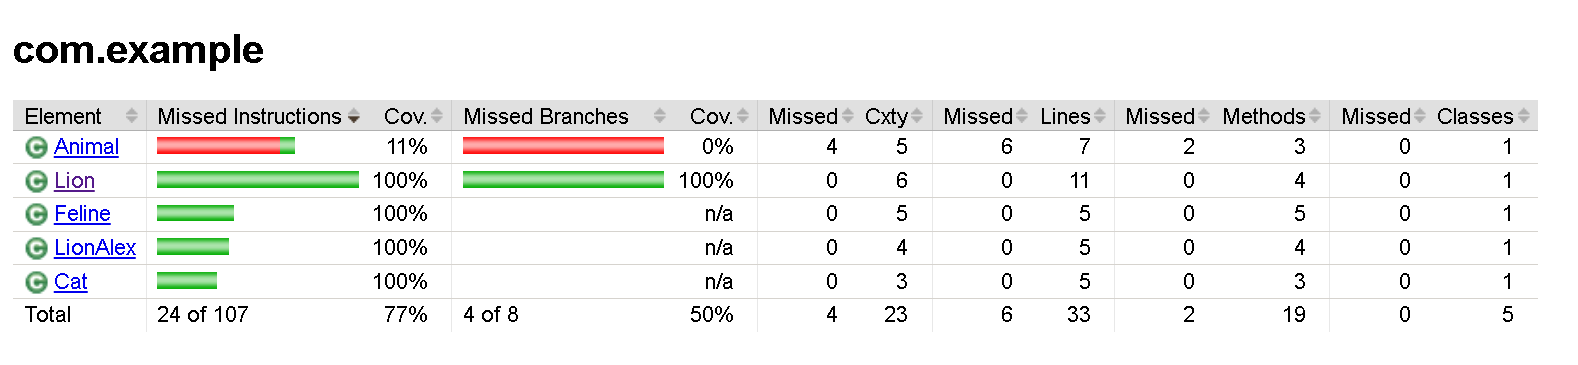
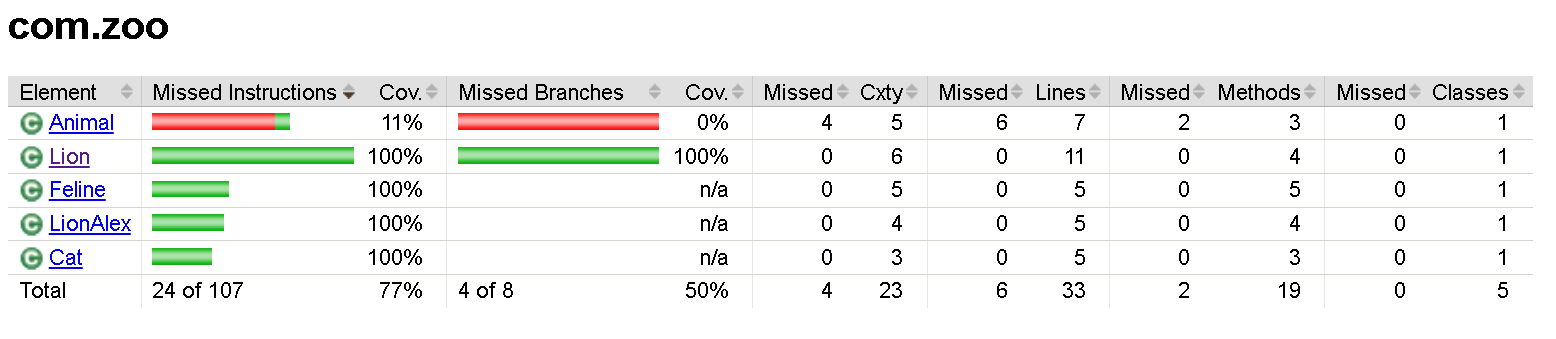
refactor: rename base package to com.zoo

diff --git a/src/main/java/com/zoo/Animal.java b/src/main/java/com/zoo/Animal.java
@@ -1,0 +1,20 @@
+package com.zoo;
+
+import java.util.List;
+
+public class Animal {
+
+    public List<String> getFood(String animalKind) throws Exception {
+        if ("Травоядное".equals(animalKind)) {
+            return List.of("Трава", "Различные растения");
+        } else if ("Хищник".equals(animalKind)) {
+            return List.of("Животные", "Птицы", "Рыба");
+        } else {
+            throw new Exception("Неизвестный вид животного, используйте значение Травоядное или Хищник");
+        }
+    }
+
+    public String getFamily() {
+        return "Существует несколько семейств: заячьи, беличьи, мышиные, кошачьи, псовые, медвежьи, куньи";
+    }
+}

diff --git a/src/main/java/com/zoo/Lion.java b/src/main/java/com/zoo/Lion.java
@@ -1,0 +1,34 @@
+package com.zoo;
+
+import java.util.List;
+
+public class Lion {
+
+    boolean hasMane;
+    Feline feline;
+
+    public Lion(String sex, Feline feline) throws Exception {
+
+        this.feline = feline;
+
+        if ("Самец".equals(sex)) {
+            hasMane = true;
+        } else if ("Самка".equals(sex)) {
+            hasMane = false;
+        } else {
+            throw new Exception("Используйте допустимые значения пола животного - самей или самка");
+        }
+    }
+
+    public int getKittens() {
+        return feline.getKittens();
+    }
+
+    public boolean doesHaveMane() {
+        return hasMane;
+    }
+
+    public List<String> getFood() throws Exception {
+        return feline.getFood("Хищник");
+    }
+}

diff --git a/src/main/java/com/zoo/Feline.java b/src/main/java/com/zoo/Feline.java
@@ -1,0 +1,25 @@
+package com.zoo;
+
+import java.util.List;
+
+public class Feline extends Animal implements Predator {
+
+    @Override
+    public List<String> eatMeat() throws Exception {
+        return getFood("Хищник");
+    }
+
+    @Override
+    public String getFamily() {
+        return "Кошачьи";
+    }
+
+    public int getKittens() {
+        return getKittens(1);
+    }
+
+    public int getKittens(int kittensCount) {
+        return kittensCount;
+    }
+
+}

diff --git a/src/main/java/com/zoo/Cat.java b/src/main/java/com/zoo/Cat.java
@@ -1,0 +1,21 @@
+package com.zoo;
+
+import java.util.List;
+
+public class Cat {
+
+    Predator predator;
+
+    public Cat(Feline feline) {
+        this.predator = feline;
+    }
+
+    public String getSound() {
+        return "Мяу";
+    }
+
+    public List<String> getFood() throws Exception {
+        return predator.eatMeat();
+    }
+
+}

diff --git a/src/main/java/com/zoo/Predator.java b/src/main/java/com/zoo/Predator.java
@@ -1,0 +1,9 @@
+package com.zoo;
+
+import java.util.List;
+
+public interface Predator {
+
+    List<String> eatMeat() throws Exception;
+
+}

diff --git a/src/test/java/com/zoo/FelineTest.java b/src/test/java/com/zoo/FelineTest.java
@@ -1,4 +1,4 @@
-package com.example;
+package com.zoo;
 
 import org.junit.Test;
 import org.junit.runner.RunWith;

diff --git a/src/test/java/com/zoo/LionTest.java b/src/test/java/com/zoo/LionTest.java
@@ -1,4 +1,4 @@
-package com.example;
+package com.zoo;
 
 import org.junit.Test;
 import org.junit.runner.RunWith;

diff --git a/src/test/java/com/zoo/CatTest.java b/src/test/java/com/zoo/CatTest.java
@@ -1,4 +1,4 @@
-package com.example;
+package com.zoo;
 
 import org.junit.Before;
 import org.junit.Test;

diff --git a/src/test/java/com/zoo/LionAlexTest.java b/src/test/java/com/zoo/LionAlexTest.java
@@ -1,4 +1,4 @@
-package com.example;
+package com.zoo;
 
 import org.junit.Before;
 import org.junit.Test;

diff --git a/src/test/java/com/zoo/LionParameterizedTest.java b/src/test/java/com/zoo/LionParameterizedTest.java
@@ -1,4 +1,4 @@
-package com.example;
+package com.zoo;
 
 import org.junit.Before;
 import org.junit.Test;

diff --git a/src/main/java/com/zoo/LionAlex.java b/src/main/java/com/zoo/LionAlex.java
@@ -1,4 +1,4 @@
-package com.example;
+package com.zoo;
 
 import java.util.List;
 
